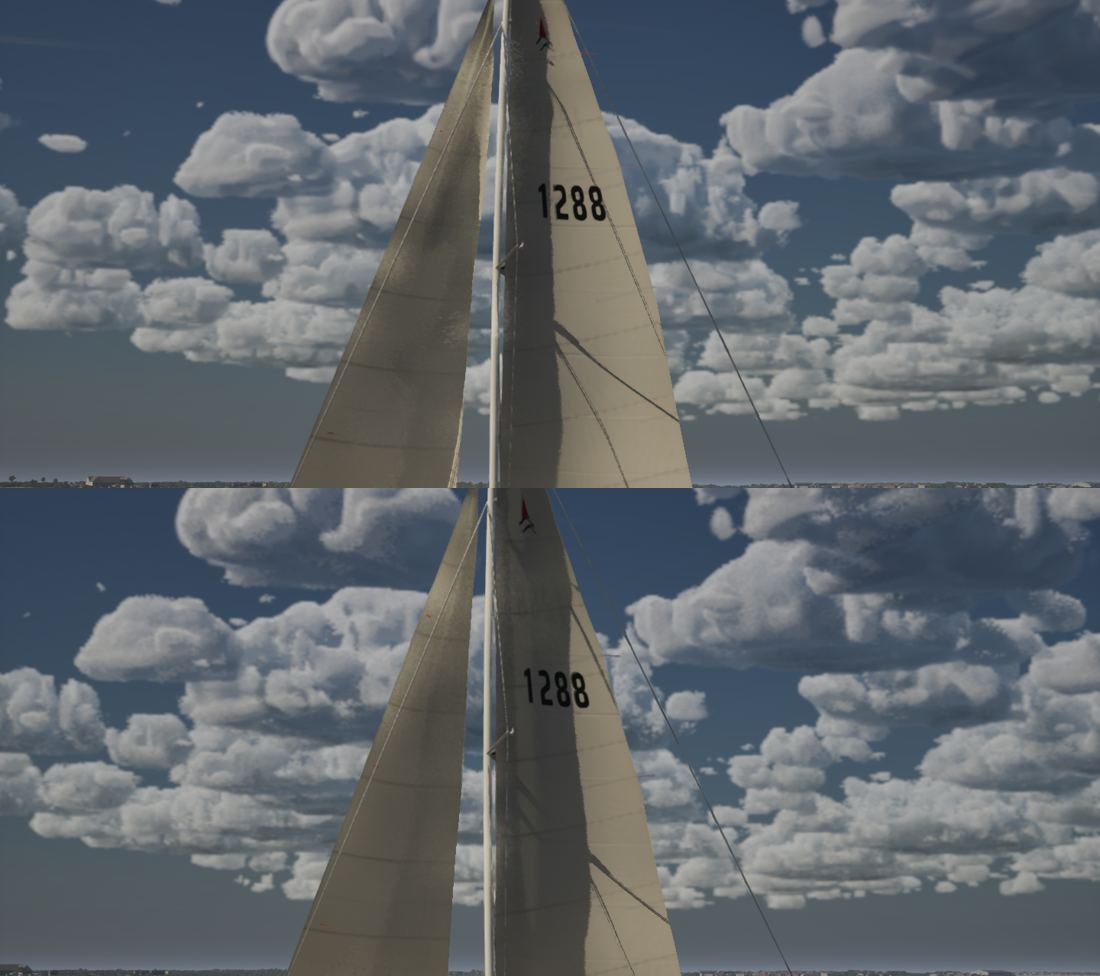
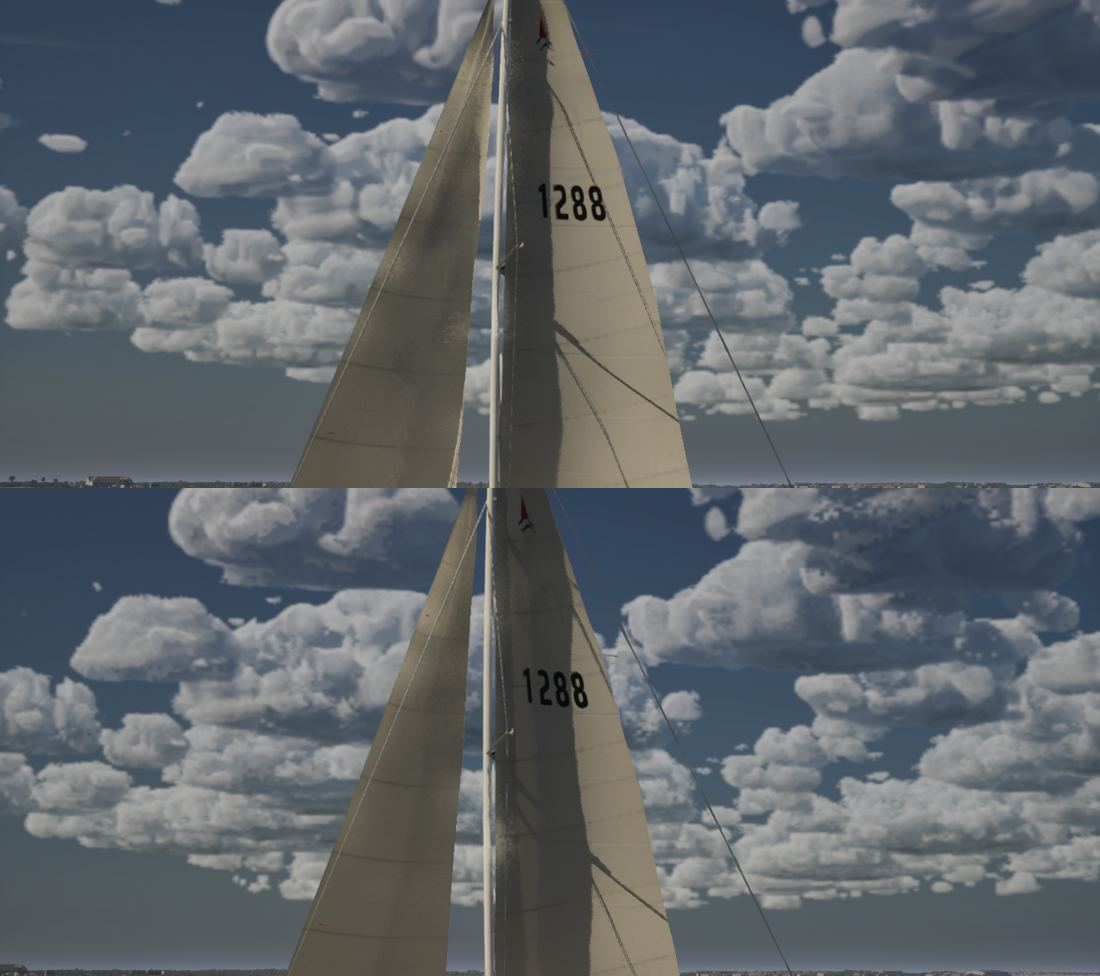
Cache march: stills and gate for the 4 x 4 jitter
Claude-Session: https://claude.ai/code/session_01NVpMHvDFAJtqCmoCXtRkGQ

diff --git a/docs/cache-march/README.md b/docs/cache-march/README.md
@@ -33,12 +33,28 @@ blocks, pillars and blades. On High's coarser panorama they stood as soft crease
 
 ## The fix
 
-- **Jittered shadow shells** (`CACHE_SHADOW`). Each shadow sample is jittered over the middle half of its step by the
-  texel's own march jitter, offset by the golden ratio per step. The terraces' edges become per-texel grain. Over the
-  whole step the grain showed; over half, neither the grain nor the terraces do.
+- **Jittered shadow shells** (`CACHE_SHADOW`). Each shadow sample is jittered over the middle half of its step, offset
+  by the golden ratio per step. Over the whole step the grain showed; over half, neither the grain nor the terraces
+  do. The jitter is shared by a block of 4 x 4 texels on Ultra's panorama (2 x 2 on High's). One per texel cost up to
+  1.2 ms of GPU on High, because neighbouring texels' shadow samples no longer read the same places; 8 x 8 brought the
+  terraces partly back. `jitter-blocks.jpg`: per texel, 8 x 8, 4 x 4 (the one kept) and main.
 - **The dome's spline knots** (`M_SkyDome`). The knots are never finer than two of Ultra's texels above 3 deg (nearer
   than about 23 km over a 1.2 km base, where the march's 35 m fine step spans two texels). That averages the jitter's
   grain on the near cumulus. Below 1.5 deg, where Ultra's panorama draws the small far cumulus, the spline still reads
   every texel. On High's 4096 panorama nothing changes.
 
 Nothing is added to the march: one `frac` and a multiply-add per shadow sample, and one divide in the dome.
+
+## Gate (clouds scope, macOS 27.0.1)
+
+Both runs on main cab3b748. Tests 238/238, every view passes.
+
+| View | Tier | main fps | this fps | main GPU ms | this GPU ms |
+|---|---|---|---|---|---|
+| beam8 | High | 57.6 | 57.9 | 16.03 | 16.04 |
+| beat15 | High | 55.4 | 55.2 | 16.49 | 16.86 |
+| storm | High | 47.7 | 48.0 | 19.19 | 19.06 |
+| gulf-sea | High | 60.3 | 60.5 | 15.60 | 15.28 |
+| helm-eye | High | 54.6 | 54.4 | 17.38 | 17.58 |
+| bridge | High | 58.4 | 58.4 | 15.60 | 15.99 |
+| storm | Medium | 68.3 | 68.9 | 14.03 | 14.14 |
